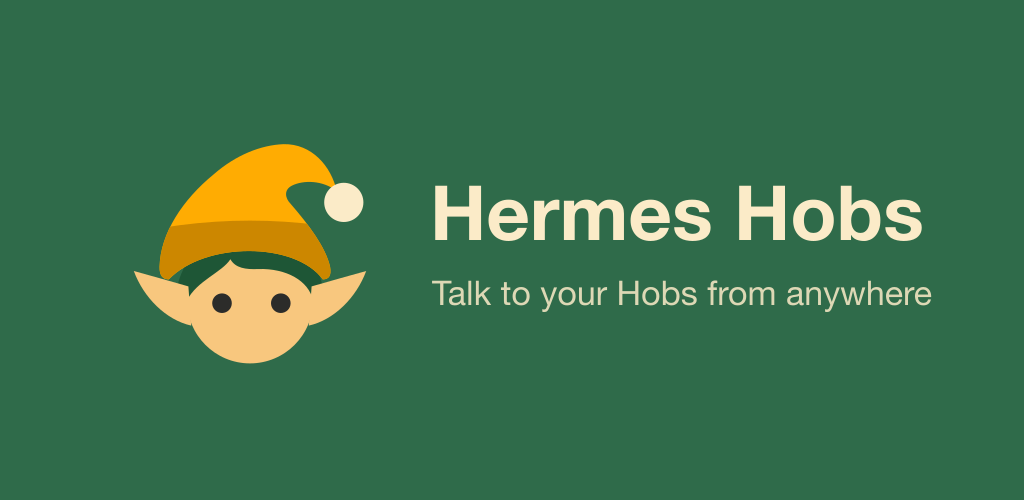
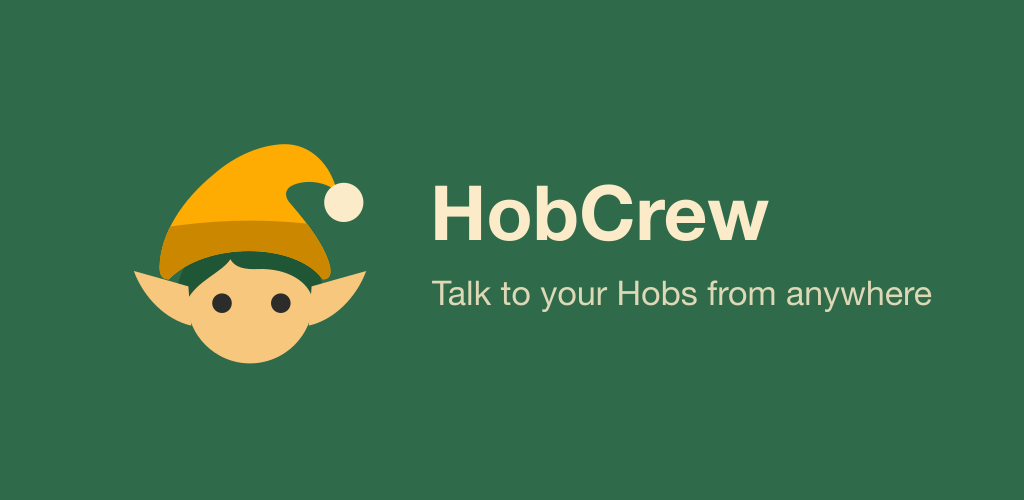
Rename the app to HobCrew, package com.hobcrew.app (#58)
* Rename the app to HobCrew, package com.hobcrew.app

Hermes Agent is Nous Research's software and their mark; the app was named
as if it were theirs. It is now HobCrew: the name on the home screen, in
the app, in notifications and in the store listing texts. The package name
moves from cz.devrel.hermeshobs to com.hobcrew.app (bundle id and App Group
on iOS and macOS too). A package name cannot change on Google Play, so the
app gets a new listing and the old one is to be unpublished; no one uses the
old one yet. The feature graphic is re-rendered with the new name.

* Take the ink and amber from the HobCrew mark

The dark of the splash, lock screen and Hob detail is the logo's eye color
(#232723) instead of the old mark's #2C2C2A. The tertiary color in both
themes and the dark theme's lantern are the logo's hat amber (#FFAC02).
The light theme keeps the darker lantern (#A86F08) for small marks on light
surfaces, where #FFAC02 reaches only 1.8:1.

---------

Changed region(s): [[0.4688, 0.36, 0.9062, 0.48]]

diff --git a/lib/ui/theme.dart b/lib/ui/theme.dart
@@ -29,7 +29,8 @@ abstract final class HobsTheme {
         onSecondary: const Color(0xFFFBFDF9),
         secondaryContainer: const Color(0xFFDCE8DE),
         onSecondaryContainer: const Color(0xFF15261B),
-        tertiary: const Color(0xFFF2B33D),
+        // The amber of the HobCrew mark (the hat in the logo).
+        tertiary: const Color(0xFFFFAC02),
         onTertiary: const Color(0xFF2B1E00),
         tertiaryContainer: const Color(0xFFFFE7B3),
         onTertiaryContainer: const Color(0xFF4A3300),
@@ -69,7 +70,7 @@ abstract final class HobsTheme {
         onSecondary: const Color(0xFF223529),
         secondaryContainer: const Color(0xFF2E3F33),
         onSecondaryContainer: const Color(0xFFD3E4D6),
-        tertiary: const Color(0xFFF6C863),
+        tertiary: const Color(0xFFFFAC02),
         onTertiary: const Color(0xFF3A2A00),
         tertiaryContainer: const Color(0xFF5A4100),
         onTertiaryContainer: const Color(0xFFFFE7B3),
@@ -231,7 +232,7 @@ class HobsColors extends ThemeExtension<HobsColors> {
 
   static const dark = HobsColors(
     working: Color(0xFF6FD49B),
-    lantern: Color(0xFFF6C863),
+    lantern: Color(0xFFFFAC02),
   );
 
   static HobsColors of(BuildContext context) =>

diff --git a/lib/l10n/strings_cs.dart b/lib/l10n/strings_cs.dart
@@ -144,10 +144,10 @@ class StringsCs extends Strings {
   String get scanNotPairing => 'Tohle není párovací kód Hermes.';
   @override
   String get scanNewerVersion =>
-      'Kód je pro novější verzi aplikace. Aktualizujte Hermes Hobs.';
+      'Kód je pro novější verzi aplikace. Aktualizujte HobCrew.';
   @override
   String get scanNoPermission =>
-      'Fotoaparát není povolený. Povolte ho pro Hermes Hobs v nastavení systému, nebo údaje zadejte ručně.';
+      'Fotoaparát není povolený. Povolte ho pro HobCrew v nastavení systému, nebo údaje zadejte ručně.';
   @override
   String get scanNoCamera =>
       'Fotoaparát tu nejde použít. Zadejte přihlašovací údaje ručně.';

diff --git a/lib/l10n/strings_en.dart b/lib/l10n/strings_en.dart
@@ -140,10 +140,10 @@ class StringsEn extends Strings {
   String get scanNotPairing => 'This is not a Hermes pairing code.';
   @override
   String get scanNewerVersion =>
-      'This code is for a newer version of the app. Update Hermes Hobs.';
+      'This code is for a newer version of the app. Update HobCrew.';
   @override
   String get scanNoPermission =>
-      'The camera is not allowed. Allow it for Hermes Hobs in the system settings, or type the sign-in details.';
+      'The camera is not allowed. Allow it for HobCrew in the system settings, or type the sign-in details.';
   @override
   String get scanNoCamera =>
       'The camera cannot be used here. Type the sign-in details instead.';

diff --git a/lib/state/notifications.dart b/lib/state/notifications.dart
@@ -271,7 +271,7 @@ class LocalNotifier implements Notifier {
   }
 
   /// Android bundles the Hobs' notifications under one summary.
-  static const _group = 'cz.devrel.hermeshobs.chats';
+  static const _group = 'com.hobcrew.app.chats';
   static const _summaryId = 0;
 
   /// The payload's target and, for an approval, its request id.
@@ -345,7 +345,7 @@ class LocalNotifier implements Notifier {
     final s = Strings.current;
     await _plugin.show(
       id: _summaryId,
-      title: 'Hermes Hobs',
+      title: 'HobCrew',
       body: null,
       notificationDetails: NotificationDetails(
         android: AndroidNotificationDetails(

diff --git a/lib/ui/settings_screen.dart b/lib/ui/settings_screen.dart
@@ -201,7 +201,7 @@ class _About extends StatelessWidget {
               trailing: const Icon(Icons.chevron_right),
               onTap: () => showLicensePage(
                 context: context,
-                applicationName: 'Hermes Hobs',
+                applicationName: 'HobCrew',
                 applicationVersion: version,
                 applicationLegalese:
                     '${s.unofficialApp}. ${s.unofficialAppHint}',

diff --git a/lib/ui/login_screen.dart b/lib/ui/login_screen.dart
@@ -379,7 +379,7 @@ class _LoginScreenState extends State<LoginScreen> {
                     ),
                     const SizedBox(height: 20),
                     Text(
-                      'Hermes Hobs',
+                      'HobCrew',
                       textAlign: TextAlign.center,
                       style: theme.textTheme.headlineSmall?.copyWith(
                         fontWeight: FontWeight.w700,

diff --git a/lib/main.dart b/lib/main.dart
@@ -103,7 +103,7 @@ class _HobsAppState extends State<HobsApp> with WidgetsBindingObserver {
       (s) => s.locked && s.phase == AuthPhase.signedIn,
     );
     return MaterialApp(
-      title: 'Hermes Hobs',
+      title: 'HobCrew',
       debugShowCheckedModeBanner: false,
       // No explicit locale: follow the device's preferred languages.
       locale: language == null ? null : Locale(language),

diff --git a/test/ui_smoke_test.dart b/test/ui_smoke_test.dart
@@ -36,7 +36,7 @@ void main() {
         child: const MaterialApp(home: LoginScreen()),
       ),
     );
-    expect(find.text('Hermes Hobs'), findsOneWidget);
+    expect(find.text('HobCrew'), findsOneWidget);
     expect(find.byType(HobGlyph), findsOneWidget);
     expect(find.text('https://hermes.devrel.cz'), findsNothing);
     await tester.tap(find.text('Zadat údaje ručně'));

diff --git a/ios/ShareExtension/ShareViewController.swift b/ios/ShareExtension/ShareViewController.swift
@@ -1,5 +1,5 @@
 // Share Extension: hands what the user shared (photos, files, links, text)
-// to Hermes Hobs, which then asks which Hob gets it.
+// to HobCrew, which then asks which Hob gets it.
 //
 // Writes the same hand-over the receive_sharing_intent plugin reads in the
 // app (Apache-2.0, https://github.com/KasemJaffer/receive_sharing_intent):

diff --git a/lib/ui/hob_detail_screen.dart b/lib/ui/hob_detail_screen.dart
@@ -798,7 +798,7 @@ class _Swatch extends StatelessWidget {
         ? cs.onSurfaceVariant
         : (fill.computeLuminance() < 0.25
               ? Colors.white
-              : const Color(0xFF2C2C2A));
+              : const Color(0xFF232723));
     return Semantics(
       button: true,
       selected: selected,

diff --git a/lib/ui/splash_screen.dart b/lib/ui/splash_screen.dart
@@ -6,7 +6,7 @@ class SplashScreen extends StatelessWidget {
   const SplashScreen({super.key});
 
   static const moss = Color(0xFF2F6B4A);
-  static const ink = Color(0xFF2C2C2A);
+  static const ink = Color(0xFF232723);
   static const amber = Color(0xFFFFAC02);
 
   @override

diff --git a/android/app/src/main/kotlin/com/hobcrew/app/MainActivity.kt b/android/app/src/main/kotlin/com/hobcrew/app/MainActivity.kt
@@ -1,4 +1,4 @@
-package cz.devrel.hermeshobs
+package com.hobcrew.app
 
 import io.flutter.embedding.android.FlutterFragmentActivity
 
